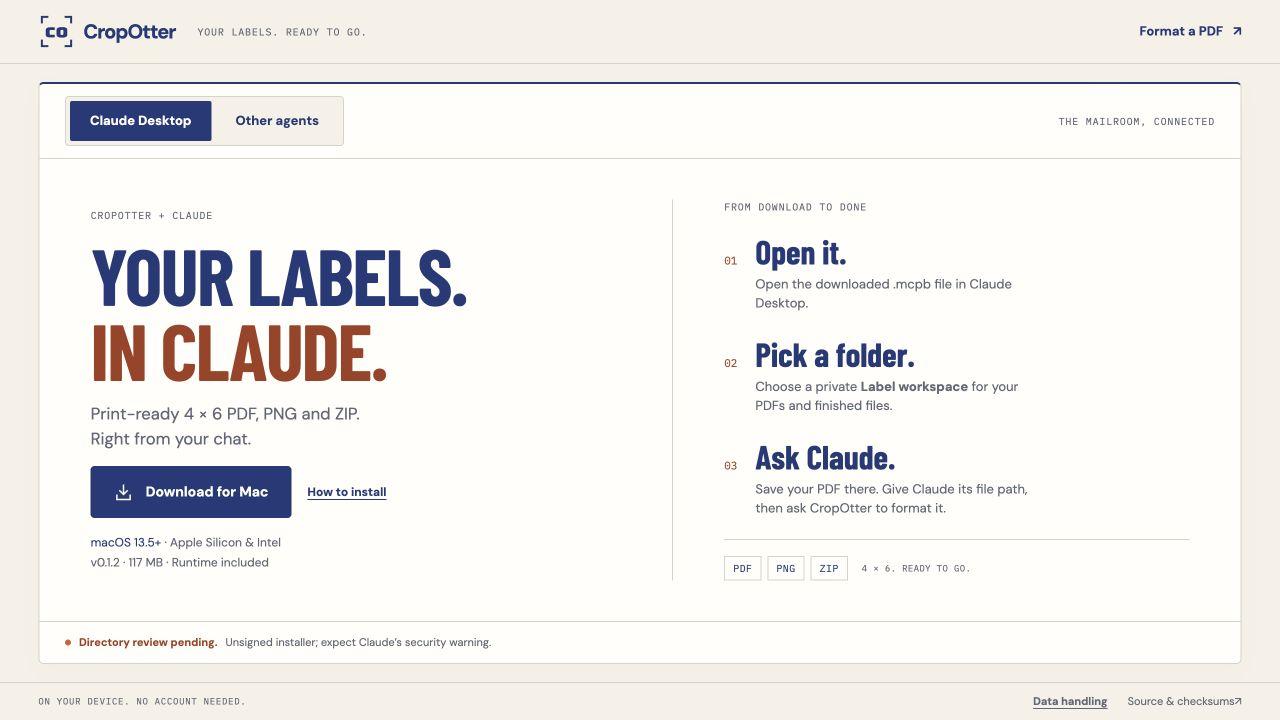
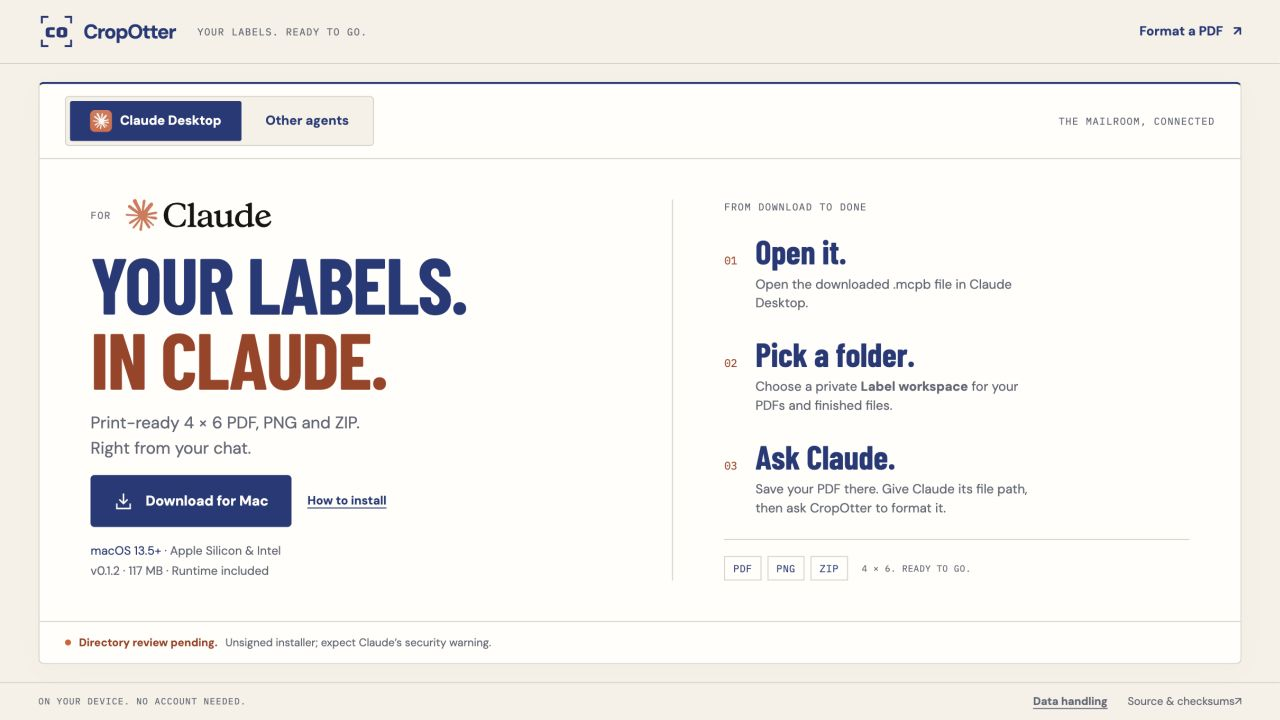
Record official Claude artwork deployment verification [skip ci]

diff --git a/HANDOFF.md b/HANDOFF.md
@@ -112,3 +112,11 @@ The formatter footer’s **Use in Claude** link and Help now open https://cropot
 The website links to the unchanged verified public 0.1.2 MCPB. macOS 13.5+, bundled Apple Silicon/Intel runtimes, unsigned, directory review pending. No approval or security-warning bypass is implied. Actual public download through the website CTA matched the recorded 122,334,239-byte SHA-256. Existing DigitalOcean hosting serves the page; no new recurring service, DNS or unrelated-service change. The generated local package/skill are now 0.1.2. Read `docs/deployment-2026-10-23.md` for image identity, acceptance and rollback.
 
 Local acceptance: web typecheck, production build, agent tests 3/3, isolated package/skill conversion verification and 10/10 new browser checks across all five projects. Additional formatter/Help/viewport subset 6/6. Independent review rechecked the actual built enlarged-text/short-landscape fixes with no important findings. Live HTTPS acceptance: 8/8 download-shell and real conversion/rename/PDF/PNG/ZIP checks in Chromium and iPhone WebKit emulation. Desktop/phone screenshots were visually reviewed and saved in `docs/images/claude-downloads*.png`. Linux CI passed all required gates, including 108 browser checks / 12 expected skips; PR #2 is merged. Full evidence is in the deployment record. Physical-device acceptance is not implied.
+
+## Official Claude identity refinement — 2026-10-23
+
+User approved the download shell and explicitly asked that the app-shell rule be saved and followed globally. Persistent memory reinforcement and `/Users/jamesboyd/.codex/AGENTS.md` now require viewport-fitting layouts, persistent controls, geometry/overlap checks and actual screenshot review for all software screens by default. Do not make the user repeat this requirement.
+
+Source `844bc85` adds original Claude wordmark/app-icon SVGs from Anthropic’s official press kit to the existing download shell. Four original vendor SVGs and byte/hash/archive-path provenance are in `apps/web/public/brand/anthropic/`; do not recolor, distort or run formatters over them. Their README and LICENSE carve-out preserve ownership/usage truth. CropOtter remains independent, with directory review pending. No approval or endorsement is claimed. Existing app-shell structure, installer and conversion behavior are unchanged.
+
+Web typecheck, production build, agent tests 3/3 and all 10 existing download-screen checks passed. Independent review found no important issues; actual desktop/phone/short-landscape/enlarged-text layout, images, axe/CSP and source hashes were checked. Live HTTPS acceptance passed 6/6 in Chromium and iPhone WebKit emulation, including real PDF/PNG/ZIP conversion. All four live SVGs match the original press-kit byte lengths/hashes. Live desktop screenshot updated. The preceding full Linux run remains evidence for the unchanged engine/application code; this cosmetic asset refinement used the focused checks above and does not claim a new full CI run. Deployment/rollback are recorded in `docs/deployment-2026-10-23.md`.

diff --git a/docs/deployment-2026-10-23.md b/docs/deployment-2026-10-23.md
@@ -30,3 +30,11 @@ Live browser checks passed **8/8** in Chromium and iPhone SE WebKit emulation: b
 Production image: `sha256:fb0b98ea04520e093daa21cc574684371d5fb05a2bee70f3fa094004d336c070`. Container healthy, user `node`, read-only, memory 512 MiB and PID limit 128, still bound only to loopback. Caddy PID 885 and cloudflared PID 1750 remained unchanged/active; no failed systemd units.
 
 PR #2 merged as `cb9c8e2b2fa7f27bb0e4f544f6d30ac9d085e475`; its code tree matches the verified implementation. The merge skips a duplicate main-branch CI run because the complete pull-request run passed on this exact code/content tree. Subsequent release-record and screenshot changes are documentation only; they do not rebuild or change the deployed runtime.
+
+## Official Claude artwork refinement
+
+Source `844bc85` adds original press-kit artwork, preserved byte-for-byte with provenance under `/brand/anthropic/`. The shell uses the official Slate Claude wordmark and rounded app icon; all four downloaded SVGs remain original and serve with correct SVG MIME and hashes. CropOtter remains independent with pending directory status. Vendor marks are excluded from MIT; the asset README links upstream usage guidelines and makes no approval claim.
+
+Focused verification: web typecheck, production build, agent tests 3/3 and existing five-project download screen checks 10/10 passed. Independent review confirmed no important findings. Live Chromium/iPhone WebKit checks passed 6/6, including app-shell geometry, accessibility/dialog behavior and actual synthetic PDF/PNG/ZIP outputs at both resolutions. Original-image hashes and live health passed. Desktop screenshot `docs/images/claude-downloads.png` updated; phone layout was visually reviewed locally and geometrically checked live. This is a cosmetic asset change, verified with relevant checks; no new full Linux CI run is claimed for it.
+
+Current image: `sha256:808ec2c84c900d22393d0a9eee632dfe7f7d8ce363de278a768816ece58dc05e`, alias `cropotter:release-20261023-claude-brand`. Before-image alias: `cropotter:before-claude-brand-20261023`. The earlier download release and original rollback images remain retained. Use the same tag-and-Compose rollback procedure above with this before-image alias. The existing host, proxy, tunnel, DNS, port binding and resource limits are unchanged; container healthy and Caddy/cloudflared active with their previous PIDs. No new recurring service was added.

diff --git a/docs/website-verification.md b/docs/website-verification.md
@@ -110,3 +110,5 @@ New tests reproduced missing app-shell structure, short-landscape clipping and e
[1 lines of base64/hex data omitted]
 
 Full Linux CI passed all required gates, including **108 browser checks / 12 expected skips**. Deployment, rollback and CI link: [release record](deployment-2026-10-23.md).
+
+Official Claude identity refinement: original wordmark and rounded app icon from the [official press kit](https://www.anthropic.com/press-kit) now identify compatibility in the download shell. Source SVG/archive paths and hashes are recorded in `apps/web/public/brand/anthropic/provenance.json`; all four live SVGs match those exact original bytes. Web typecheck, production build, agent tests 3/3 and the existing five-project screen checks 10/10 passed. Independent review found no important issues. Live focused acceptance passed 6/6 in Chromium/iPhone WebKit, including responsive/enlarged-text layout and actual PDF/PNG/ZIP conversion. Actual local phone and live desktop visuals were reviewed. This cosmetic refinement uses focused verification and does not claim another full Linux CI run. See the deployment record for current/rollback image aliases. The standing global app-shell requirement was also explicitly reinforced in persistent memory and global build instructions at the user’s request.
